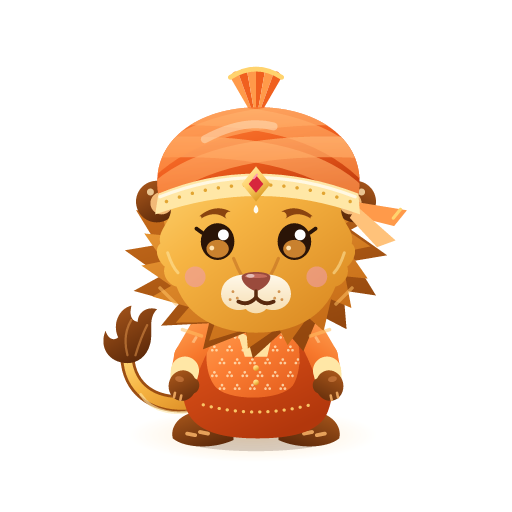
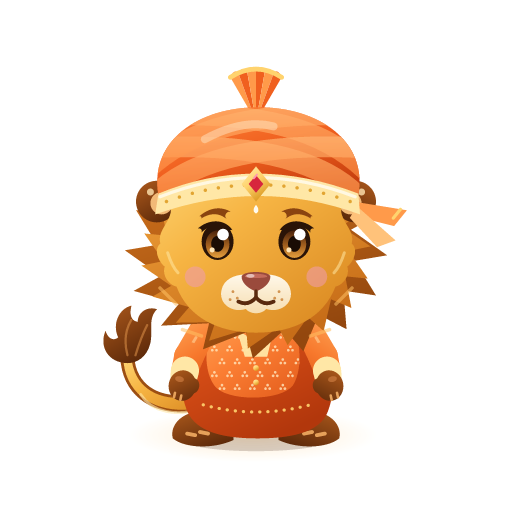
Redraw Kesar's eyes
Proper iris and pupil instead of a flat amber blob, the lid hugs the
top of the eye with a small flick at the outer corner, and the tear
lines are gone.

Changed region(s): [[0.5312, 0.4062, 0.625, 0.5312], [0.375, 0.4062, 0.4688, 0.5312]]

diff --git a/src/mascot/rig.ts b/src/mascot/rig.ts
@@ -39,6 +39,7 @@ const GRADIENTS: Record<string, string> = {
   'k-turban': `<linearGradient id="k-turban" x1="0" y1="0" x2=".7" y2="1"><stop stop-color="#FF8A3E"/><stop offset=".55" stop-color="#F0601F"/><stop offset="1" stop-color="#C63E0E"/></linearGradient>`,
   'k-fold': `<linearGradient id="k-fold" x1="0" y1="0" x2="0" y2="1"><stop stop-color="#FFB774"/><stop offset="1" stop-color="#FF8A3E"/></linearGradient>`,
   'k-gold': `<linearGradient id="k-gold" x1="0" y1="0" x2=".6" y2="1"><stop stop-color="#FFF1B0"/><stop offset=".5" stop-color="#FFD36E"/><stop offset="1" stop-color="#D9971F"/></linearGradient>`,
+  'k-iris': `<linearGradient id="k-iris" x1="0" y1="0" x2="0" y2="1"><stop stop-color="#4A230C"/><stop offset=".55" stop-color="#A3601F"/><stop offset="1" stop-color="#E5A03E"/></linearGradient>`,
   'k-aura': `<radialGradient id="k-aura"><stop stop-color="#FFB347" stop-opacity=".26"/><stop offset="1" stop-color="#FFB347" stop-opacity="0"/></radialGradient>`,
   'k-glow': `<radialGradient id="k-glow"><stop stop-color="#FFF3B0" stop-opacity=".85"/><stop offset="1" stop-color="#FFF3B0" stop-opacity="0"/></radialGradient>`,
 };
@@ -252,9 +253,8 @@ const faceCoat = `<g transform="translate(130 118) scale(.92 .96) translate(-130
   <path d="M72 92C72 62 98 46 130 46C162 46 188 62 188 92C190 100 197 104 195 112C200 116 196 124 192 127C194 133 189 139 184 140C176 160 156 170 130 170C104 170 84 160 76 140C71 139 66 133 68 127C64 124 60 116 65 112C63 104 70 100 72 92Z" fill="url(#k-coat)"/>
   ${stroke('M70 118C72 124 74 128 77 131M190 118C188 124 186 128 183 131', '#FFE6A0', 2, 'opacity=".55"')}</g>`;
 
-// Light fur under the eyes, a lion's tear lines, the puffy whisker pads.
+// The puffy whisker pads.
 const patches = `
-  ${stroke('M116 121.5Q118.5 128 121.5 133M144 121.5Q141.5 128 138.5 133', '#B5601E', 2, 'opacity=".45"')}
   <g transform="translate(130 145) scale(.9) translate(-130 -145)">
     <path d="M130 132C124 128 108 130 106 141C104 151 114 157 123 154C126 158 134 158 137 154C146 157 156 151 154 141C152 130 136 128 130 132Z" fill="url(#k-cream)"/>
     ${dots([[114, 142], [117, 146.5], [112, 147.5], [146, 142], [143, 146.5], [148, 147.5]], 1, '#D39552')}
@@ -267,14 +267,17 @@ const blushHot = `<g fill="#F09BB0" opacity=".5"><circle cx="92" cy="133" r="8.5
 const browL = `<path d="${taper([113.5, 95], [108, 91], [101.5, 91], [95, 96], 5.4, 1.8)}" fill="${BROW}"/>`;
 const browR = mirror(browL);
 
-// Round bead eyes with bright amber, highlight on the right, a lash flick.
+// Bead eyes: a dark rim, an amber iris that warms toward the bottom, a dark
+// pupil, two highlights, and an upper lid that thickens toward the outer corner.
+const LID = taper([-8.6, -6.4], [-4.2, -12.9], [5, -12.9], [11.6, -6.6], 2, 3.4);
 const bead = (x: number, outer: number) => `
   <g transform="translate(${x} 111)">
-    <ellipse rx="10.5" ry="11.5" fill="${EYE}"/>
-    <ellipse cy="4.5" rx="7" ry="5.6" fill="#C9812E"/>
-    <circle cx="3.6" cy="-4.2" r="3.4" fill="#fff"/>
-    <circle cx="-3.6" cy="4" r="1.5" fill="#FFE2B0"/>
-    ${stroke(`M${outer * 9.6} -5.5l${outer * 3.6} -2.6`, EYE, 2.4)}
+    <ellipse rx="10" ry="11.5" fill="${EYE}"/>
+    <ellipse cy="1.6" rx="7.4" ry="8.6" fill="url(#k-iris)"/>
+    <ellipse cy="1.4" rx="4" ry="5" fill="#1A0C04"/>
+    <circle cx="3.4" cy="-4.4" r="3.6" fill="#fff"/>
+    <circle cx="-3.4" cy="5.2" r="1.6" fill="#FFE6B8"/>
+    <path d="${LID}" fill="${EYE}" transform="scale(${outer} 1)"/>
   </g>`;
 
 const happyEyes =
